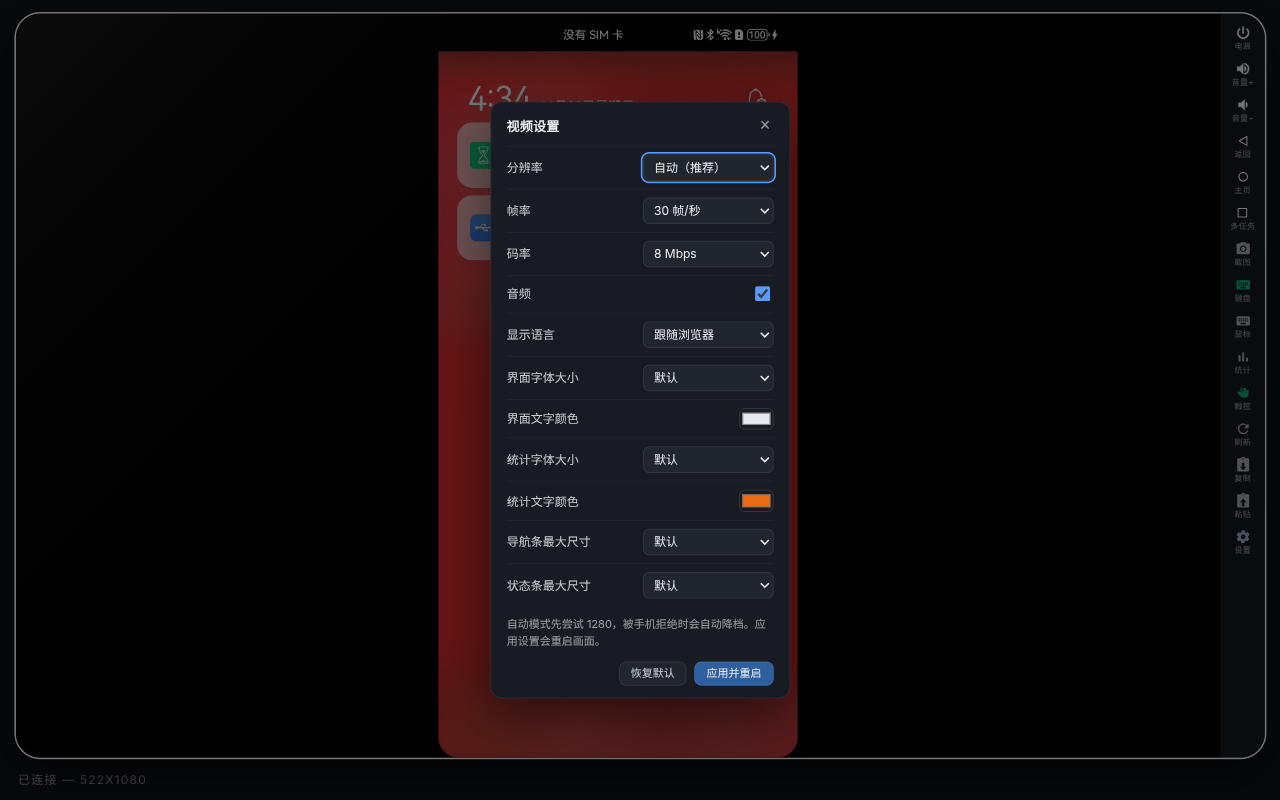
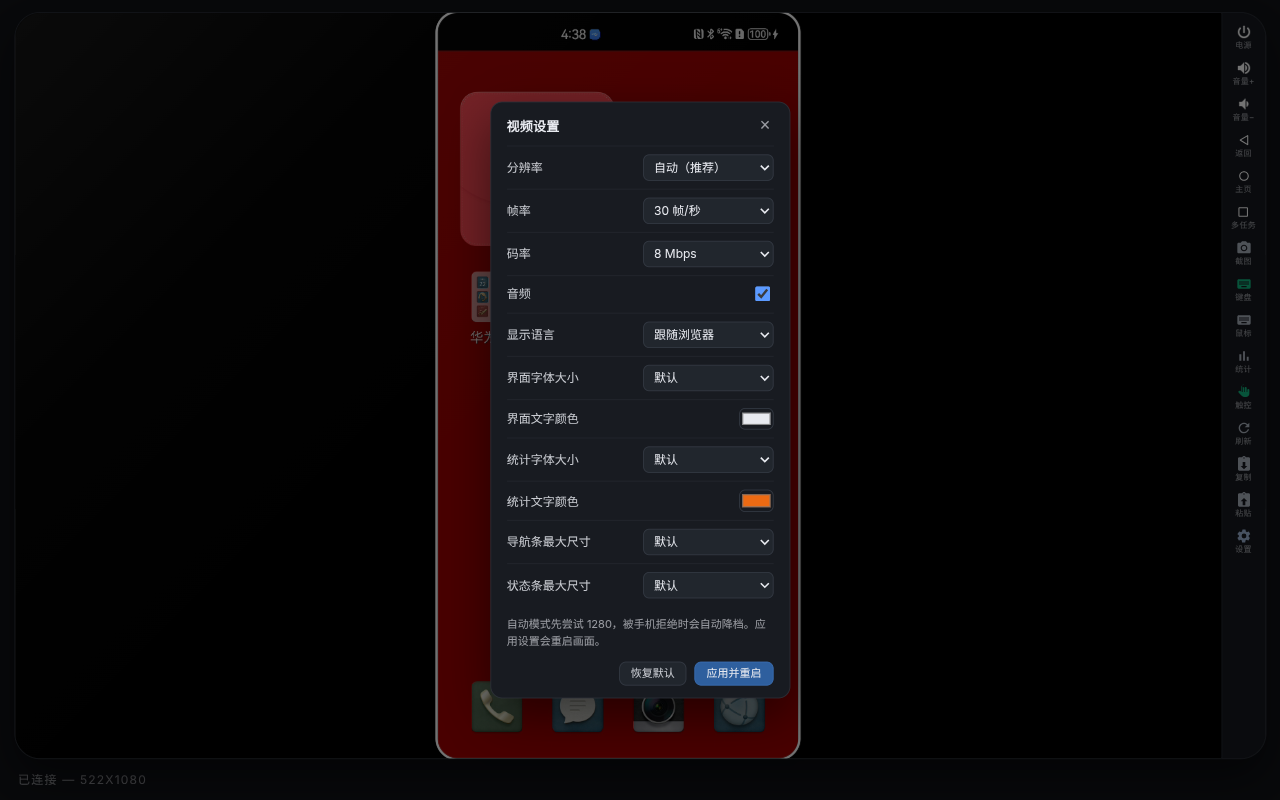
fix: put the white ring on the picture, not the whole stream container
- Move the white rounded outline from #stream to the video/touch canvases via
  box-shadow, so it hugs the phone screen and leaves the right tool rail out.
  box-shadow avoids changing the canvas box, keeping touch coordinates exact.
- Refresh README screenshots to match.

diff --git a/web/styles.css b/web/styles.css
@@ -84,7 +84,7 @@ body {
   overflow: hidden;
   background: #050609;
   /* Rounded, slightly raised glass-looking bezel around the mirrored screen. */
-  border: 2px solid #fff;
+  border: 1px solid #2a2f38;
   border-radius: 26px;
   box-shadow:
     inset 0 0 0 1px rgb(255 255 255 / 30%),
@@ -137,6 +137,10 @@ body {
   max-width: 100%;
   max-height: 100%;
   border-radius: 20px;
+  /* A white ring that hugs the picture only, not the whole container with
+     its tool rail. box-shadow keeps the element box unchanged, so the
+     engine's touch coordinate mapping (rect vs clientWidth) stays exact. */
+  box-shadow: 0 0 0 2px #fff;
 }
 
 /* The engine's control rail: narrow icons beside the picture. Our stylesheet

diff --git a/README.md b/README.md
@@ -39,7 +39,7 @@ v0.5.13，Home / Back / 音量 / 电源等按键走一条轻量 ADB 控制桥。
 - **全屏镜像**：整台手机画面实时投到浏览器，不是单个 App 的截图。
 - **网页反控**：右侧窄工具栏里的 `电源 / 音量+ / 音量− / 返回 / 主页 / 多任务` 六个系统按键；顶部导航栏已隐藏，所有操作集中在右侧。
 - **自然交互**：鼠标左键点击和拖拽等价于手指触摸；滚轮上下滚动手机页面；右键映射为手机返回键，浏览器右键菜单已被禁用。
-- **屏幕外观**：投屏区域带白色圆角边框、内阴影和斜向高光，模拟手机曲面的立体玻璃效果。
+- **屏幕外观**：画面本身带白色圆角描边（不含右侧工具栏），投屏区域另有内阴影和斜向高光，模拟手机曲面的立体玻璃效果。
 - **设置面板**：右侧工具栏的齿轮按钮可设置分辨率、帧率、码率、音频、语言、字体与导航条/状态条尺寸，改动立即生效并自动重启画面流。
 - **状态联动**：每 3 秒轮询手机锁屏/休眠状态并显示在状态栏，锁屏黑屏时给出明确提示。
 - **多语言界面**：中文 / 英文，在设置面板切换，默认跟随浏览器语言，即时生效无需刷新；按钮文字、状态提示、锁屏/剪贴板提示、右侧工具栏的悬浮提示（tooltip），以及引擎直接绘制在画面上的画质统计文字都会一起翻译。
